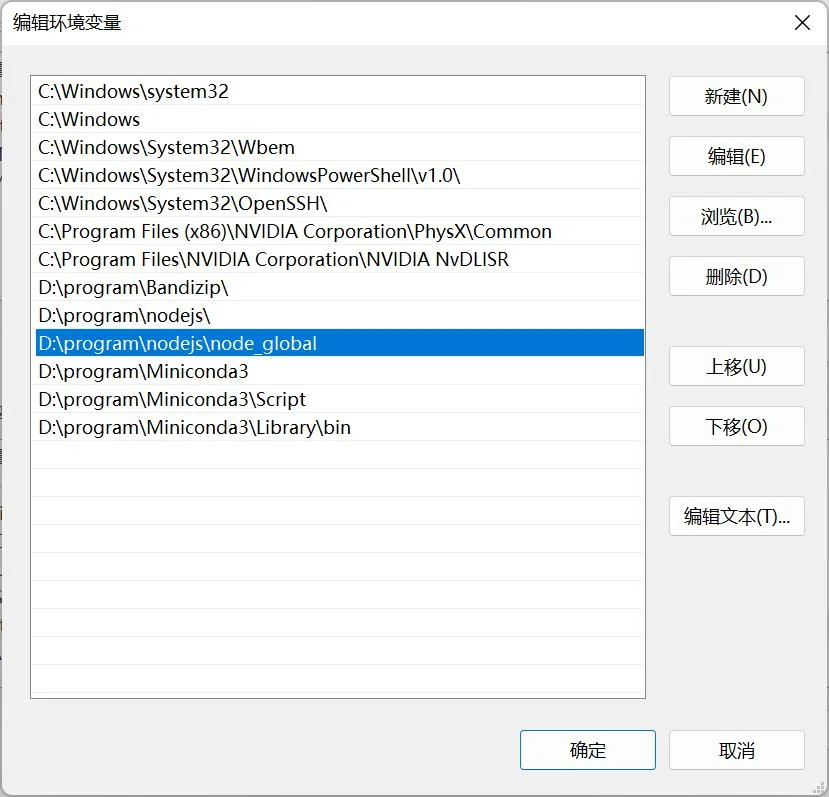
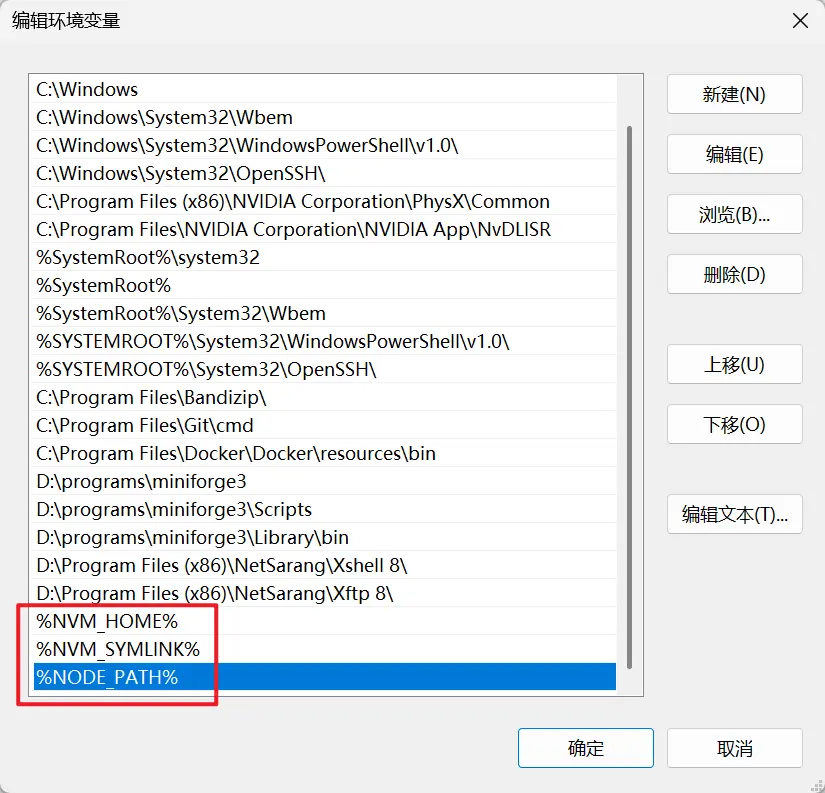
feat(frontend): 更新前端环境配置文档并替换图片
- 更新前端环境配置文档，将 Node.js 安装指南改为使用 NVM 进行管理
- 替换文档中的截图以反映最新的配置步骤
- 更新 .gitignore 文件以忽略更多常见临时文件类型
- 调整 VSCode 设置，从默认格式化文件列表中移除 markdown

diff --git a/docs/frontend/01-setup.md b/docs/frontend/01-setup.md
@@ -1,114 +1,143 @@
-# 前端环境配置全过程记录
+# 前端 Node.js 环境配置全过程记录
 
-## 1 安装 node.js
+## 1 使用 NVM 安装 Node.js
 
-&emsp;&emsp;[Node.js 官网](https://nodejs.org/en/download)
+### 1.1 安装 NVM
 
-![](../assets/images/fe-image-20250201204211294-002.webp)
+（1）用途：用于安装、管理和控制不同的 Node 版本的最佳实现。
 
-&emsp;&emsp;安装过程很简单，中途注意修改安装位置到其他盘，其余下一步即可。
+（2）官方下载地址：[NVM 下载for Windows、Linux 和 MacOS - NVM中文网](https://www.nvmnode.com/zh/guide/download.html)
 
-&emsp;&emsp;安装结束后在 cmd 命令窗口中输入指令，查看是否安装成功。【要求：安装路径不得有空格和中文】
+（3）官方安装指南：[NVM 安装指南 - NVM中文网](https://www.nvmnode.com/zh/guide/installation.html)
 
+- 安装过程很简单，中途注意修改安装位置到其他盘，其余下一步即可。
+- 安装结束后在 cmd 命令窗口中输入指令，查看是否安装成功。【要求：安装路径不得有空格和中文】
+
+![fe-2026-04-07_11-47-12](../assets/images/fe-2026-04-07_11-47-12.webp)
+
+![fe_2026-04-07_11-52-04](../assets/images/fe_2026-04-07_11-52-04.webp)
+
+（4）设置镜像：[NVM 镜像设置 - NVM中文网](https://www.nvmnode.com/zh/guide/mirrors.html)
+
+```sh
+# 设置 Node.js 镜像
+nvm node_mirror https://npmmirror.com/mirrors/node/
+# 设置 npm 镜像
+nvm npm_mirror https://npmmirror.com/mirrors/npm/
 ```
+
+### 1.2 安装 Node.js
+
+（1）用途：用于启动前端项目的工具。
+
+（2）安装：新项目最好使用 Node.js v22 以上版本进行安装。
+
+- 查看当前支持的 Node 版本
+
+```sh
+nvm list available
+```
+
+![fe_2026-04-07_11-57-06](../assets/images/fe_2026-04-07_11-57-06.webp)
+
+- 安装 Node.js v22 最新 LTS 版本 `22.22.2`（截止至 2026.04.07）
+
+```sh
+nvm install 22.22.2
+```
+
+- 配置全局默认 Node.js 版本
+
+```sh
+nvm use 22.22.2
+```
+
+- 查看当前 Node.js 版本
+
+```sh
 node -v
 ```
 
-![](../assets/images/fe-image-20250201204413843-003.webp)
+![fe_2026-04-07_11-59-56](../assets/images/fe_2026-04-07_11-59-56.webp)
 
-## 2 安装包管理器
+## 2 包管理器配置
 
-### 2.1 配置 npm 全局安装包路径
+### 2.1 修改 NPM 安装路径
 
-#### 2.2.1 查看 npm 全局安装包路径
+（1）用途：Node 安装依赖时默认安装在 C 盘，可以同设置参数控制其安装路径。
 
-> 查看默认安装路径
+#### 2.1.1 创建缓存与全局目录
 
-```
+- 在 `nodejs` 镜像所在目录下新建 `node_cache` 和 `node_global` 两个文件夹，并设置文件夹权限。
+
+![fe_2026-04-07_12-10-05](../assets/images/fe_2026-04-07_12-10-05.webp)
+
+#### 2.1.2 配置 NPM 缓存与全局安装路径
+
+- 配置 `cache` 缓存路径和 `prefix` 全局安装路径
+
+```sh
+# 修改 npm 全局安装位置
+npm config set cache "D:\nvm\nodejs\node_cache"
+# 修改 npm 缓存位置
+npm config set prefix "D:\nvm\nodejs\node_global"
+# 查看 npm 全局安装包路径
 npm root -g
 ```
 
-![](../assets/images/fe-image-20250201205124832-005.webp)
+![fe_2026-04-07_12-17-18](../assets/images/fe_2026-04-07_12-17-18.webp)
 
-> 在 nodejs 文件夹中创建文件夹
+- 也可以通过查看配置文件检查是否配置完成，路径位于：`C:\Users\用户名\.npmrc`，使用记事本打开后，查看 NPM 配置内容
 
-&emsp;&emsp;创建 `node_global`，`node_cache`，`yarn` 三个新文件夹。
-
-![](../assets/images/fe-image-20250201204800673-004.webp)
-
-#### 2.2.2 修改 npm 全局安装包路径
-
-> 修改 npm 全局安装位置
-
-&emsp;&emsp;这里的位置以当前刚刚创建的文件夹位置为准，不唯一。
-
-```
-npm config set prefix "D:\program\nodejs\node_global"
+```.npmrc
+registry=https://registry.npmmirror.com
+cache=D:\nvm\nodejs\node_cache
+prefix=D:\nvm\nodejs\node_global
 ```
 
-> 修改 npm 缓存位置
+### 2.2 配置全局依赖环境变量
 
-```
-npm config set cache "D:\program\nodejs\node_cache"
-```
+（1）用途：为了使全局安装的 Node 工具能够被全局使用，需要将全局路径添加到环境变量中。
 
-#### 2.2.3 配置相关环境变量
+（2）详细配置步骤如下：
 
-> 环境变量 → 系统变量 → path → 新建
-
-![](../assets/images/fe-5-030.webp)
-
-> 环境变量 → 系统变量 → 新建 → `NODE_PATH`
+- 环境变量 → 系统变量 → 新建 → `NODE_PATH`
 
 ![](../assets/images/fe-6-031.webp)
 
-> 再次查看默认安装路径
+- 环境变量 → 系统变量 → 双击 Path → 新建 `%NODE_PATH%`
 
-```
-npm root -g
-```
+![](../assets/images/fe-5-030.webp)
 
-![](../assets/images/fe-7-032.webp)
+### 2.3 安装并配置 yarn
 
-### 2.2 安装并配置 yarn
+#### 2.3.1 安装 yarn
 
-#### 2.2.1 安装 yarn
-
-> 安装 yarn 1.x
-
-```
+```sh
+# 安装 yarn 1.x
 npm i -g yarn
-```
-
-> 检查是否安装成功
-
-```
+# 检查是否安装成功
 yarn -v
 ```
 
 ![](../assets/images/fe-image-20250201205124832-005.webp)
 
-#### 2.2.2 查看 yarn 的默认配置
+#### 2.3.2 查看 yarn 的默认配置
 
-> 查看全局安装目录
-
-```
+```sh
+# 查看全局安装目录
 yarn global dir
-```
-
-> 查看缓存目录
-
-```
+# 查看缓存目录
 yarn cache dir
 ```
 
 ![](../assets/images/fe-9-033.webp)
 
-#### 2.2.3 创建相应文件夹
+#### 2.3.3 创建 yarn 相应文件夹
 
 ![](../assets/images/fe-10-026.webp)
 
-#### 2.2.4 修改 yarn 全局安装位置和缓存位置
+#### 2.3.4 修改 yarn 全局安装位置和缓存位置
 
 > 修改 yarn 全局安装位置
 
@@ -122,7 +151,7 @@ yarn config set global-folder "D:\program\nodejs\yarn\global"
 yarn config set cache-folder "D:\program\nodejs\yarn\cache"
 ```
 
-#### 2.2.4 再次检查 yarn 的默认配置
+#### 2.3.4 再次检查 yarn 的默认配置
 
 ```
 yarn global dir
@@ -131,7 +160,7 @@ yarn cache dir
 
 ![](../assets/images/fe-11-027.webp)
 
-#### 2.2.5 修改镜像源
+#### 2.3.5 修改镜像源
 
 ```
 yarn config set registry https://registry.npmmirror.com
@@ -143,9 +172,9 @@ NOTE：此处是淘宝镜像源的最新地址：[npmmirror 中国镜像站](htt
 
 ![](../assets/images/fe-image-20250201205440923-007.webp)
 
-### 2.3 安装 cnpm
+### 2.4 安装 cnpm
 
-&emsp;&emsp;因为 npm 安装插件是从国外服务器下载，可能出现异常，所以我们需要使用国内的淘宝镜像 cnpm 来加快包的下载速度。
+&emsp;&emsp;因为 npm 安装插件默认从国外服务器下载，可能出现异常，所以我们可以使用国内的淘宝镜像 cnpm 来加快包的下载速度。
 
 &emsp;&emsp;cnpm 完全沿用之前 npm 的所有配置，无需另外配置。
 
